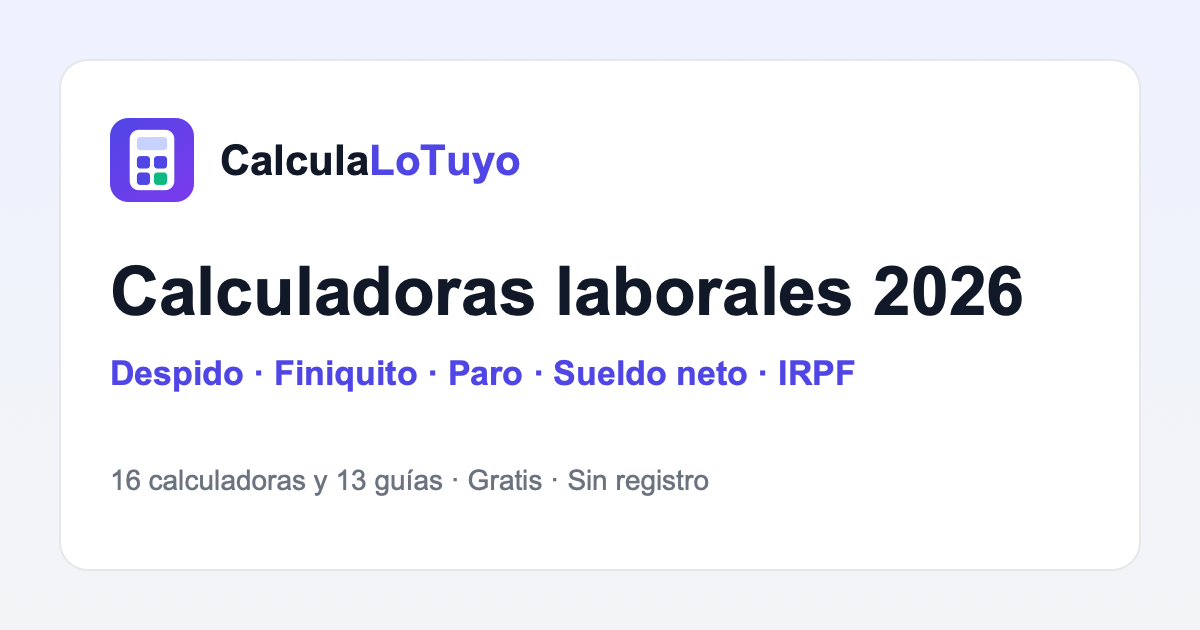
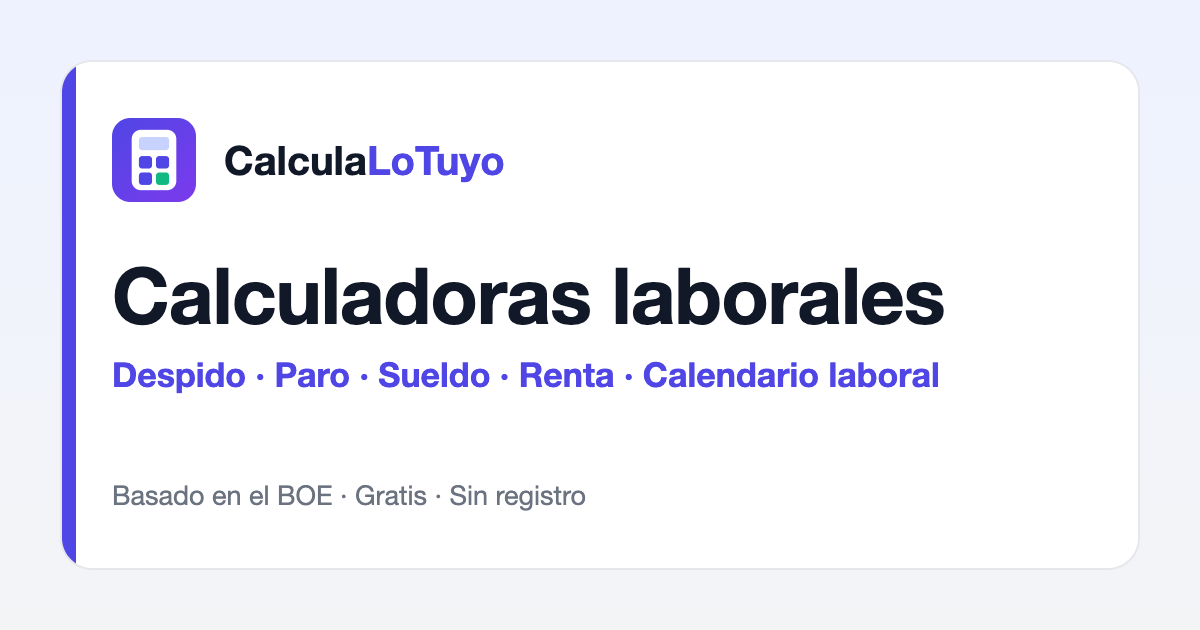
Imagen para compartir genérica: sin año ni número de calculadoras

diff --git a/_herramientas/og/og-image.html b/_herramientas/og/og-image.html
@@ -1,0 +1,9 @@
+<!doctype html><html><head><meta charset="utf-8"><style>
+html,body{margin:0;width:1200px;height:630px;font-family:-apple-system,"Helvetica Neue",Helvetica,Arial,sans-serif}
+body{background:linear-gradient(180deg,#EEF2FF,#F3F4F6);display:flex;align-items:center;justify-content:center}
+.c{width:1080px;height:510px;background:#fff;border:2px solid #E5E7EB;border-radius:32px;box-sizing:border-box;padding:56px 50px;position:relative;overflow:hidden}
+.c:before{content:"";position:absolute;left:0;top:0;bottom:0;width:14px;background:#4F46E5}
+.m{display:flex;align-items:center;gap:28px;font-size:40px;font-weight:700;color:#111827} .m svg{width:84px;height:84px} .m b{color:#4F46E5}
+h1{font-size:78px;margin:52px 0 18px;color:#111827;letter-spacing:-1px;line-height:1.05}
+.s{font-size:34px;font-weight:700;color:#4F46E5} .p{position:absolute;bottom:56px;font-size:27px;color:#6B7280}
+</style></head><body><div class="c"><div class="m"><svg xmlns='http://www.w3.org/2000/svg' viewBox='0 0 64 64'>  <defs><linearGradient id='g' x1='0' y1='0' x2='1' y2='1'><stop offset='0' stop-color='#4F46E5'/><stop offset='1' stop-color='#7C3AED'/></linearGradient></defs>  <rect width='64' height='64' rx='14' fill='url(#g)'/>  <!-- Cuerpo de la calculadora -->  <rect x='15' y='9' width='34' height='46' rx='7' fill='#fff'/>  <!-- Pantalla -->  <rect x='20.5' y='14.5' width='23' height='10' rx='2.5' fill='#C7D2FE'/>  <!-- Teclas: la verde es el «=», el resultado -->  <rect x='20.5' y='29' width='10' height='9.5' rx='2.5' fill='#4F46E5'/>  <rect x='33.5' y='29' width='10' height='9.5' rx='2.5' fill='#4F46E5'/>  <rect x='20.5' y='41.5' width='10' height='9.5' rx='2.5' fill='#4F46E5'/>  <rect x='33.5' y='41.5' width='10' height='9.5' rx='2.5' fill='#10B981'/></svg><span>Calcula<b>LoTuyo</b></span></div><h1>Calculadoras laborales</h1><div class="s">Despido · Paro · Sueldo · Renta · Calendario laboral</div><div class="p">Basado en el BOE · Gratis · Sin registro</div></div></body></html>
